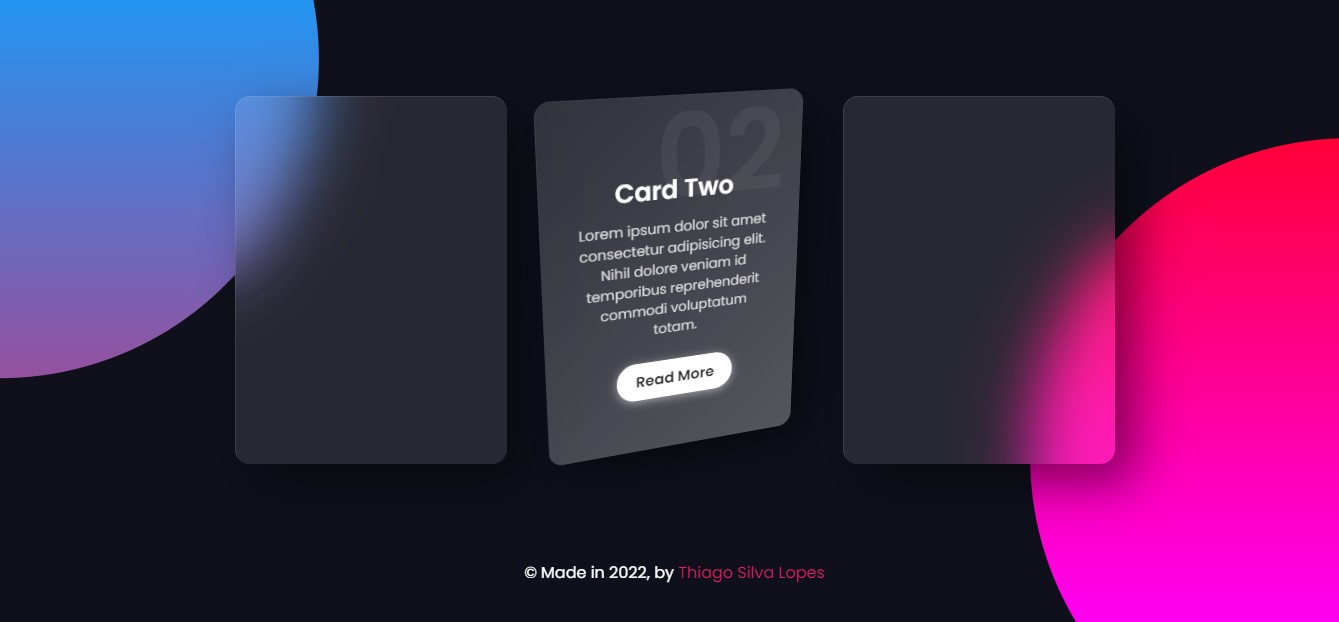
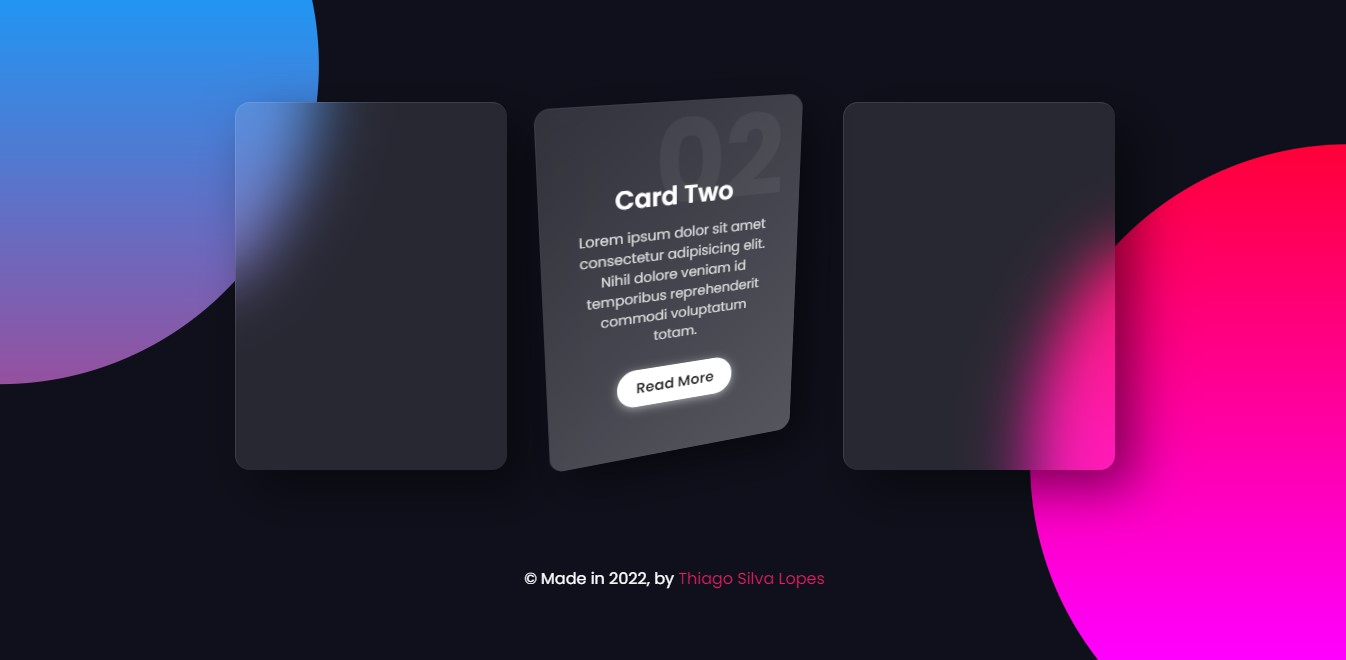
Font-weight fixed :D Project done 😎

diff --git a/assets/css/styles.css b/assets/css/styles.css
@@ -1,5 +1,5 @@
 /*===== GOOGLE FONTS =====*/
-@import url("https://fonts.googleapis.com/css2?family=Poppins:wght@400;500;600&display=swap");
+@import url("https://fonts.googleapis.com/css2?family=Poppins:wght@100;200;300;400;500;600;700;800;900&display=swap");
 
 /*===== VARIABLES CSS =====*/
 :root {
@@ -135,7 +135,7 @@ main::before {
   font-size: 7rem;
   color: var(--text-color-light);
   font-family: var(--body-font);
-  font-weight: 700 !important;
+  font-weight: 700;
   /* Don't change cursor on hover: */
   pointer-events: none;
 }
@@ -151,7 +151,7 @@ main::before {
 .text {
   margin-top: 0.5rem;
   font-size: 0.9rem;
-  font-weight: 100;
+  font-weight: 400;
   color: var(--text-color);
 }
 
